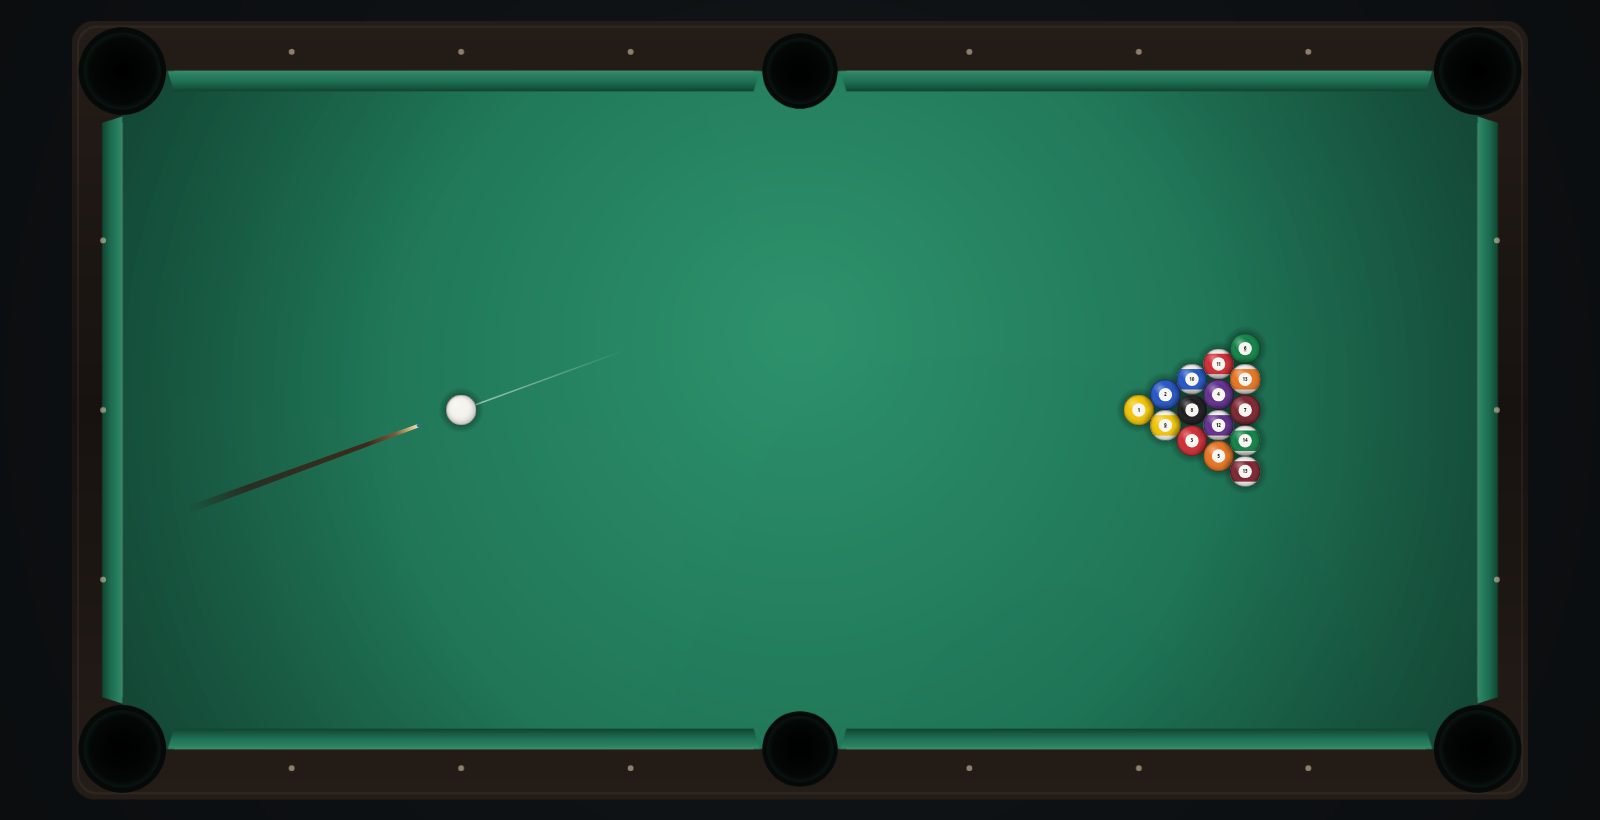
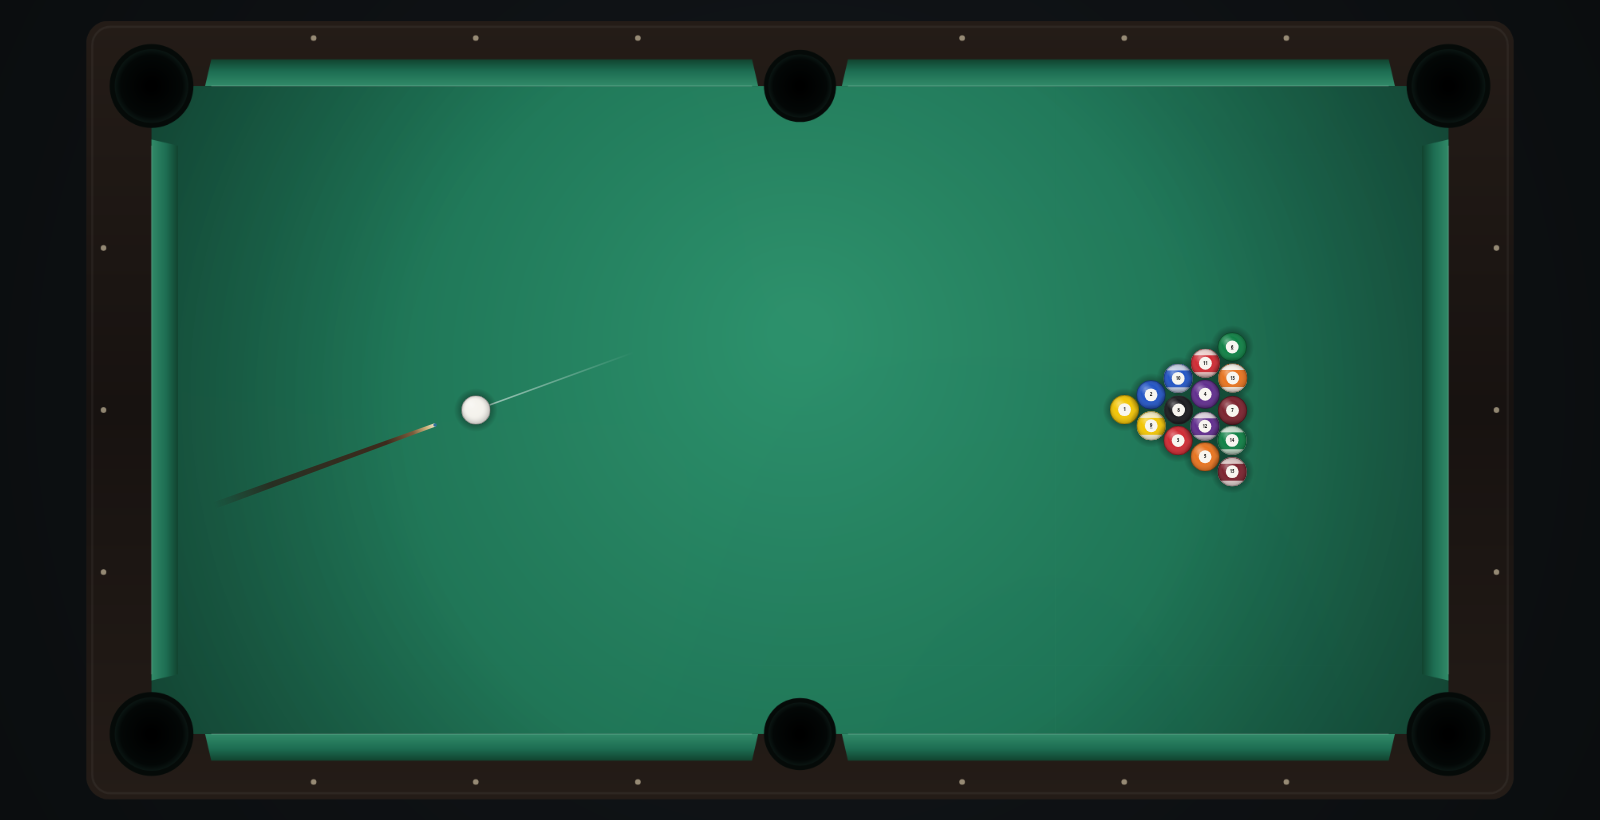
Put the cushions on the correct side of the playing edge, open up the pockets
The cushion was drawn inside the playing area while the collision line was on its outer edge, so a resting ball looked 38mm deep in the rail. Cushions now sit outside the edge with the nose exactly on the bounce line, and the rail band is wide enough to read. Corner jaws were 13mm and the gap 85mm, which left a corridor narrower than the balls: they clipped the jaw instead of dropping. Jaw down to 4mm, corner gap 105mm, side gap 82mm - pot rate on an aimed-in test went 4/8 to 6/8, and the two misses are shots that legitimately hit the rail first.

diff --git a/src/render/scene.ts b/src/render/scene.ts
@@ -3,7 +3,9 @@ import type { Ball } from '../core/physics';
 import { TAU, qRotate, type V2, type V3 } from '../core/math';
 import { CUSHIONS, POCKETS } from '../core/table';
 
-export const RAIL = 0.095;
+export const RAIL = 0.128;
+/** How far the cushion sticks out past the playing edge. */
+export const CUSHION_DEPTH = 0.052;
 export const OUTER_L = TABLE_L + 2 * RAIL;
 export const OUTER_W = TABLE_W + 2 * RAIL;
 
@@ -140,10 +142,11 @@ function buildTable(): HTMLCanvasElement {
     g.save();
     g.translate(cu.ax, cu.ay);
     g.rotate(ang);
-    const depth = 0.038;
-    // The cushion is drawn from the nose backwards along the normal, so the
-    // gradient has to run the same way or it clamps to one flat colour.
-    const sgn = cu.ny !== 0 ? Math.sign(cu.ny) : Math.sign(cu.nx);
+    const depth = CUSHION_DEPTH;
+    // The cushion sits *outside* the playing edge, with its nose on the line
+    // the ball actually bounces off. Drawing it inside the cloth makes the ball
+    // look like it is sinking into the rail before it rebounds.
+    const sgn = -(cu.ny !== 0 ? Math.sign(cu.ny) : Math.sign(cu.nx));
     const d1 = depth * sgn;
     const grad = g.createLinearGradient(0, 0, 0, d1);
     grad.addColorStop(0, '#318a68');
@@ -188,12 +191,12 @@ function buildTable(): HTMLCanvasElement {
   });
 
   // --- sights ---
-  g.fillStyle = 'rgba(228,214,180,0.55)';
-  const dOff = 0.012;
+  g.fillStyle = 'rgba(228,214,180,0.6)';
+  const dOff = CUSHION_DEPTH + 0.042;
   for (let i = 1; i <= 7; i++) {
     if (i === 4) continue; // side pocket
     const x = -HALF_L + (TABLE_L * i) / 8;
-    for (const y of [HALF_W + dOff + 0.024, -HALF_W - dOff - 0.024]) {
+    for (const y of [HALF_W + dOff, -HALF_W - dOff]) {
       g.beginPath();
       g.arc(x, y, 0.0055, 0, TAU);
       g.fill();
@@ -201,7 +204,7 @@ function buildTable(): HTMLCanvasElement {
   }
   for (let i = 1; i <= 3; i++) {
     const y = -HALF_W + (TABLE_W * i) / 4;
-    for (const x of [HALF_L + dOff + 0.024, -HALF_L - dOff - 0.024]) {
+    for (const x of [HALF_L + dOff, -HALF_L - dOff]) {
       g.beginPath();
       g.arc(x, y, 0.0055, 0, TAU);
       g.fill();

diff --git a/test/visual.test.ts b/test/visual.test.ts
@@ -1,6 +1,14 @@
 import { describe, expect, it } from 'vitest';
 import { BALL_SHEET_CELL, BALL_SHEET_PAD, renderBallSheet, renderTable } from '../tools/scene-render';
+import { OUTER_L, OUTER_W } from '../src/render/scene';
 import { newRack } from '../src/core/physics';
+
+/** Same fit the scene uses, so pixel probes land where the geometry is. */
+const fit = (w: number, h: number): { scale: number; cx: number; cy: number } => ({
+  scale: Math.min((w * 0.95) / OUTER_L, (h * 0.95) / OUTER_W),
+  cx: w / 2,
+  cy: h / 2,
+});
 
 const HUE: Record<number, [number, number, number]> = {
   1: [0xf2, 0xc4, 0x00],
@@ -45,16 +53,16 @@ describe('table image', () => {
 
   it('has a dark hole at the corner pocket', () => {
     // corner pocket sits at world (-1.27, -0.635)
-    const scale = Math.min((1600 * 0.95) / 2.73, (820 * 0.95) / (1.27 + 0.19));
-    const sx = 800 - 1.27 * scale;
-    const sy = 410 - 0.635 * scale;
+    const { scale, cx, cy } = fit(1600, 820);
+    const sx = cx - 1.27 * scale;
+    const sy = cy - 0.635 * scale;
     const [r, g, b] = at(px, sx, sy);
     expect(r + g + b).toBeLessThan(70);
   });
 
   it('draws the cue ball white', () => {
-    const scale = Math.min((1600 * 0.95) / 2.73, (820 * 0.95) / (1.27 + 0.19));
-    const [r, g, b] = at(px, 800 - 0.635 * scale, 410);
+    const { scale, cx, cy } = fit(1600, 820);
+    const [r, g, b] = at(px, cx - 0.635 * scale, cy);
     expect(r).toBeGreaterThan(180);
     expect(g).toBeGreaterThan(180);
     expect(b).toBeGreaterThan(180);

diff --git a/src/core/constants.ts b/src/core/constants.ts
@@ -34,11 +34,11 @@ export const HALF_W = TABLE_W / 2;
 export const RAIL_H = 0.27 * BALL_R;
 
 /** Cushion stops this far from a corner pocket. */
-export const CORNER_GAP = 0.085;
+export const CORNER_GAP = 0.105;
 /** Cushion stops this far either side of a side pocket. */
-export const SIDE_GAP = 0.075;
-/** Radius of the little rounded jaw at the end of each cushion. */
-export const JAW_R = 0.013;
+export const SIDE_GAP = 0.082;
+/** Radius of the rounded jaw at the end of each cushion. Sharp, like a cut. */
+export const JAW_R = 0.004;
 
 /** Top of the power bar. A firm shot, not a pro break. */
 export const MAX_CUE_SPEED = 5.2;
